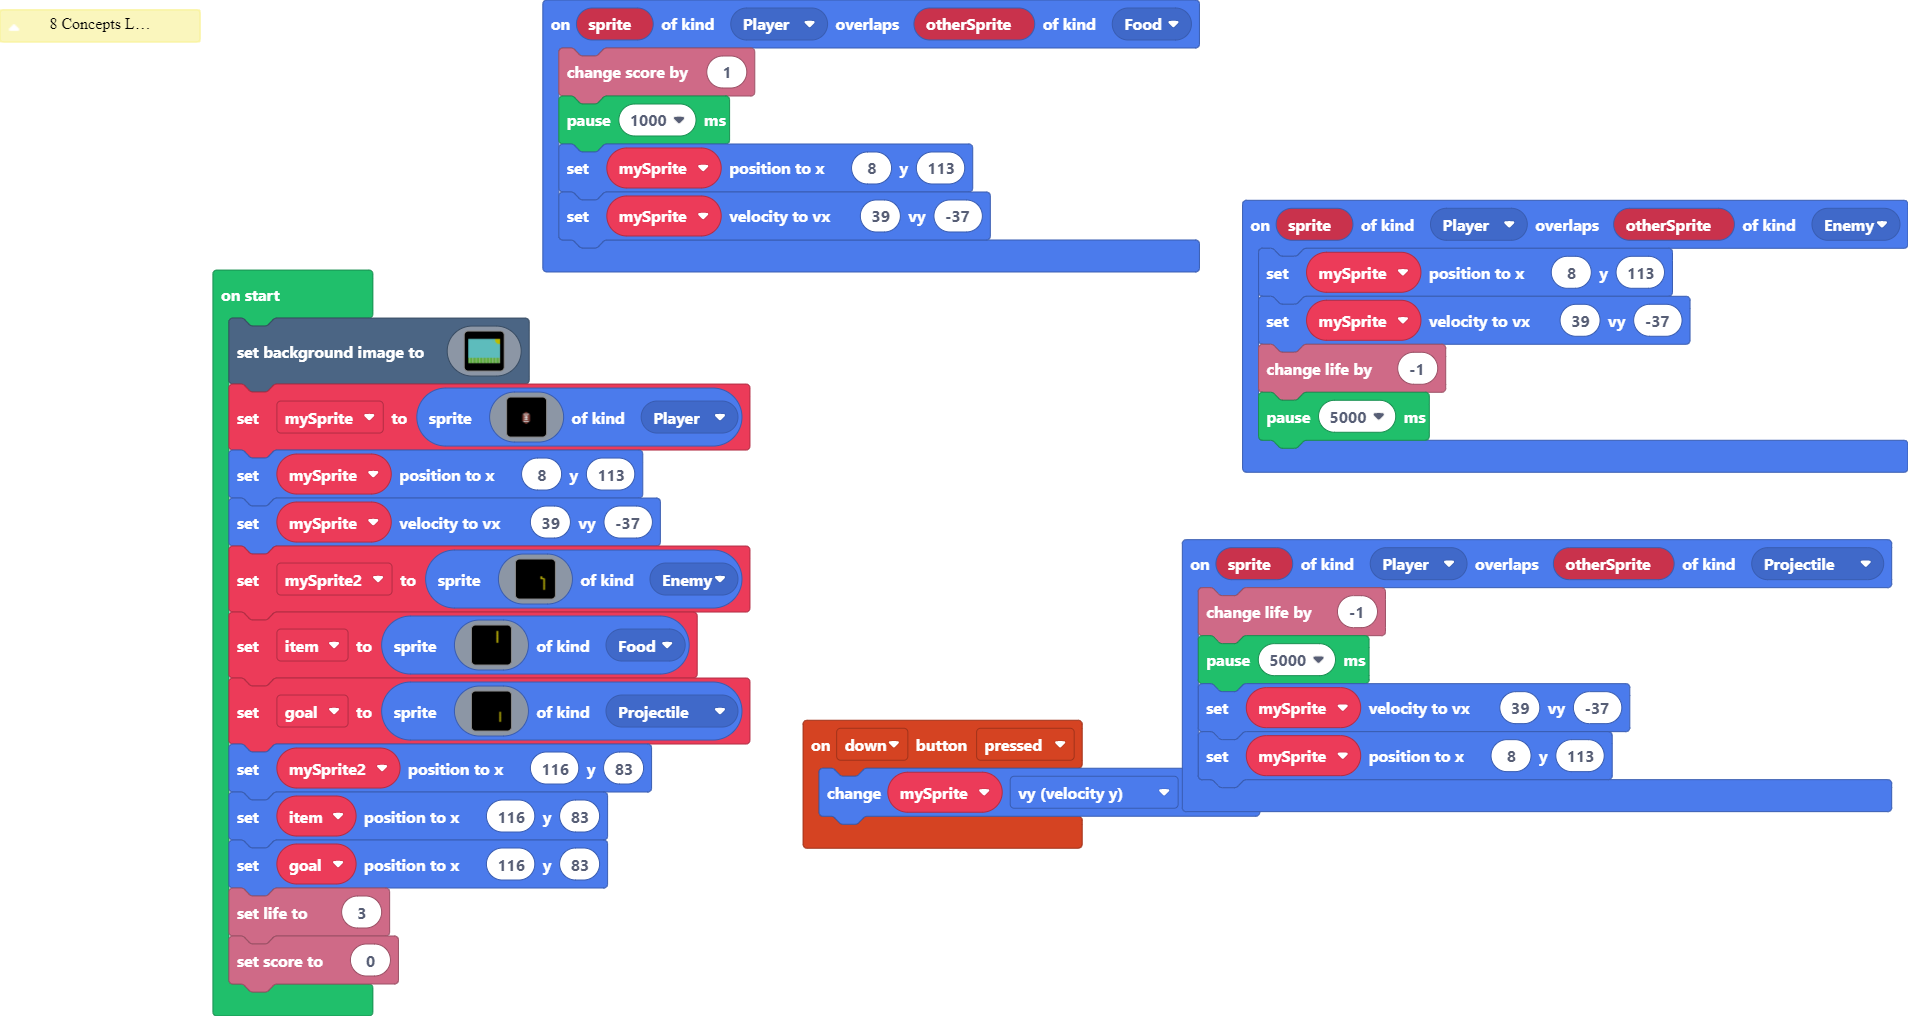
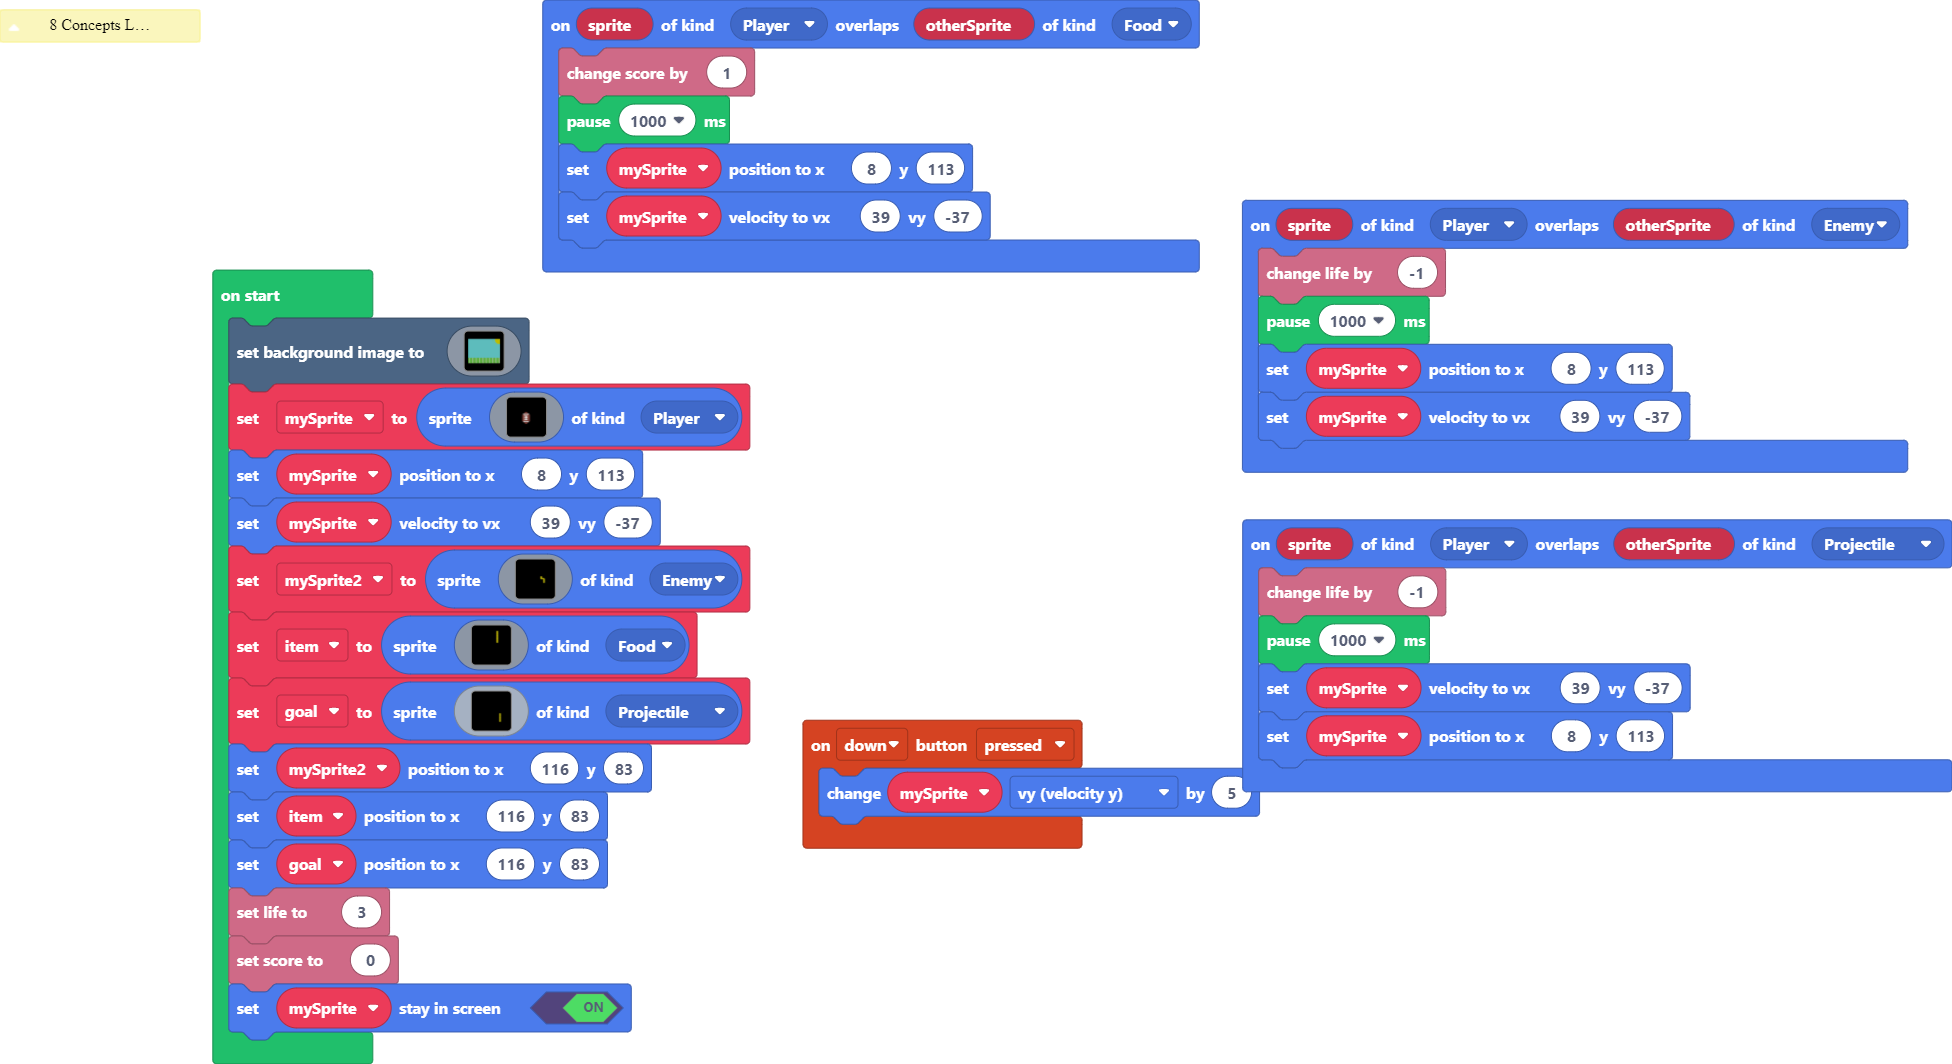
Finished product.

Changed region(s): [[0.0928, 0.0, 1.0, 1.0], [0.0309, 0.0, 0.0618, 0.0305]]

diff --git a/main.ts b/main.ts
@@ -1,6 +1,6 @@
 sprites.onOverlap(SpriteKind.Player, SpriteKind.Projectile, function (sprite, otherSprite) {
     info.changeLifeBy(-1)
-    pause(5000)
+    pause(1000)
     mySprite.setVelocity(39, -37)
     mySprite.setPosition(8, 113)
 })
@@ -14,10 +14,10 @@ sprites.onOverlap(SpriteKind.Player, SpriteKind.Food, function (sprite, otherSpr
     mySprite.setVelocity(39, -37)
 })
 sprites.onOverlap(SpriteKind.Player, SpriteKind.Enemy, function (sprite, otherSprite) {
+    info.changeLifeBy(-1)
+    pause(1000)
     mySprite.setPosition(8, 113)
     mySprite.setVelocity(39, -37)
-    info.changeLifeBy(-1)
-    pause(5000)
 })
 /**
  * 8 Concepts Learned (Pick the 8 you used, delete the others):
@@ -289,30 +289,30 @@ let mySprite2 = sprites.create(img`
     ...................................................................................5555.......................
     ...................................................................................5555.......................
     ...................................................................................5555.......................
-    ...................................................................................5555.......................
-    ...................................................................................5555.......................
-    ...................................................................................5555.......................
-    ...................................................................................5555.......................
-    ...................................................................................5555.......................
-    ...................................................................................5555.......................
-    ...................................................................................5555.......................
-    ...................................................................................5555.......................
-    ...................................................................................5555.......................
-    ...................................................................................5555.......................
-    ...................................................................................5555.......................
-    ...................................................................................5555.......................
-    ...................................................................................5555.......................
-    ...................................................................................5555.......................
-    ...................................................................................5555.......................
-    ...................................................................................5555.......................
-    ...................................................................................5555.......................
-    ...................................................................................5555.......................
-    ...................................................................................5555.......................
-    ...................................................................................5555.......................
-    ...................................................................................5555.......................
-    ...................................................................................5555.......................
-    ...................................................................................5555.......................
-    ...................................................................................5555.......................
+    ..............................................................................................................
+    ..............................................................................................................
+    ..............................................................................................................
+    ..............................................................................................................
+    ..............................................................................................................
+    ..............................................................................................................
+    ..............................................................................................................
+    ..............................................................................................................
+    ..............................................................................................................
+    ..............................................................................................................
+    ..............................................................................................................
+    ..............................................................................................................
+    ..............................................................................................................
+    ..............................................................................................................
+    ..............................................................................................................
+    ..............................................................................................................
+    ..............................................................................................................
+    ..............................................................................................................
+    ..............................................................................................................
+    ..............................................................................................................
+    ..............................................................................................................
+    ..............................................................................................................
+    ..............................................................................................................
+    ..............................................................................................................
     ..............................................................................................................
     ..............................................................................................................
     ..............................................................................................................
@@ -503,11 +503,11 @@ let goal = sprites.create(img`
     ..............................................................................................................
     ..............................................................................................................
     ..............................................................................................................
-    ...................................................................................5555.......................
-    ...................................................................................5555.......................
-    ...................................................................................5555.......................
-    ...................................................................................5555.......................
-    ...................................................................................5555.......................
+    ..............................................................................................................
+    ..............................................................................................................
+    ..............................................................................................................
+    ..............................................................................................................
+    ..............................................................................................................
     ...................................................................................5555.......................
     ...................................................................................5555.......................
     ...................................................................................5555.......................
@@ -561,3 +561,4 @@ item.setPosition(116, 83)
 goal.setPosition(116, 83)
 info.setLife(3)
 info.setScore(0)
+mySprite.setStayInScreen(true)
